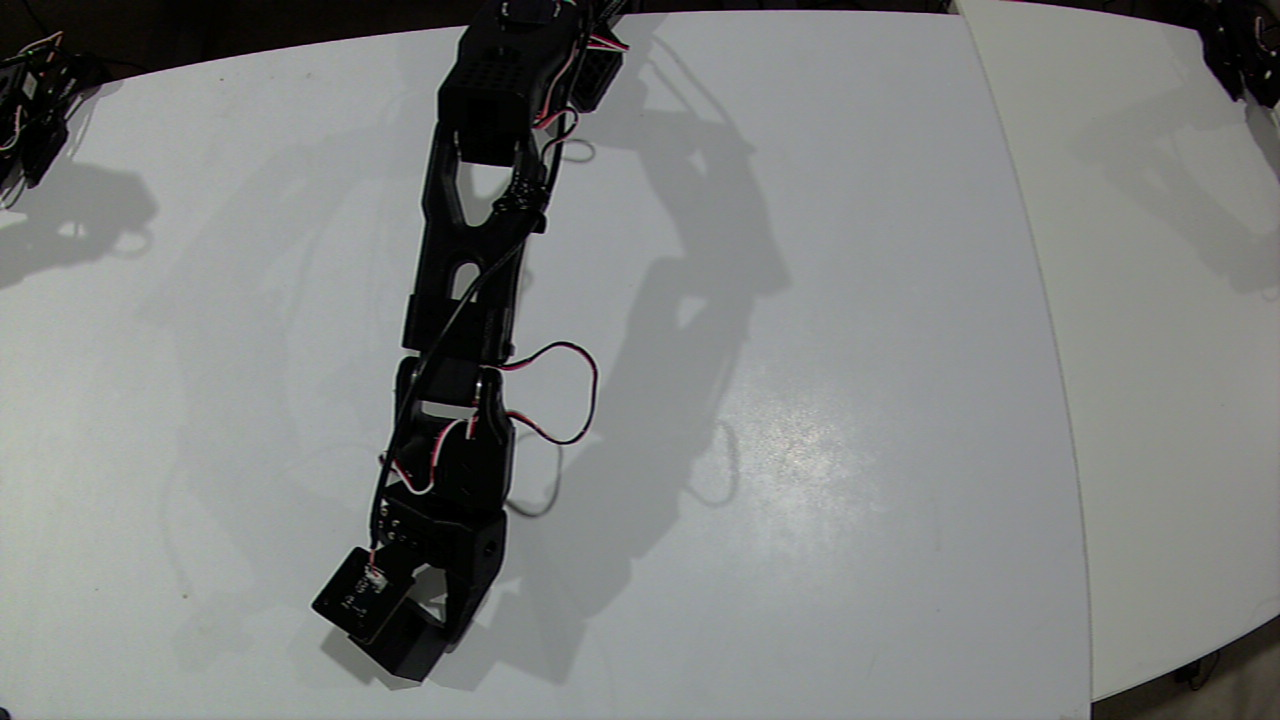
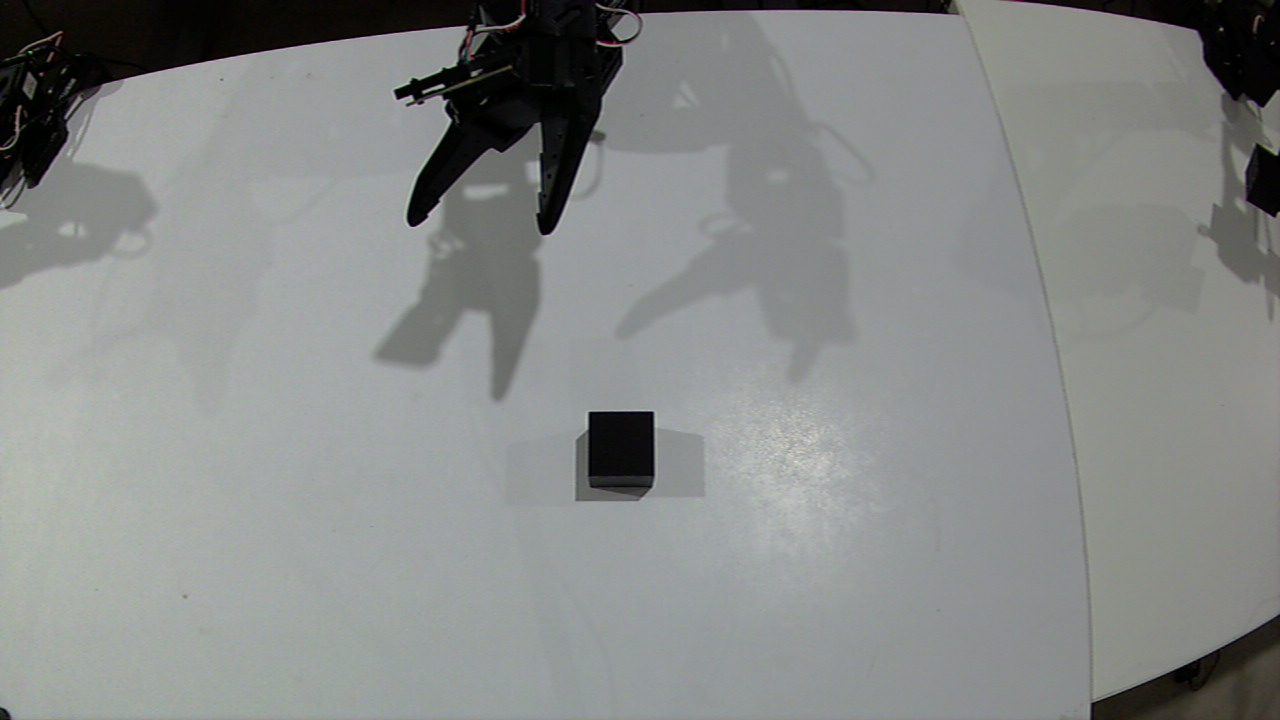
Update tools for arm-007__gpt-6-astra__grasp-cube
{"agent_id": "arm-007__gpt-6-astra__grasp-cube", "designation": "arm-007", "identity_version": 2, "model": "gpt-6-astra", "provider": "codex", "task_definition": {"description": "Start episode, pickup the black cube, bring black cube to home position, confirm successful grasp, stop episode, return object to new position, return home, repeat", "id": "grasp-cube", "success_criteria": ["successful episode coverage across the entire workspace", "achieve at least 50 successful episodes an hour"], "version": 2}, "task_id": "grasp-cube", "task_sha256": "e6c8adbb1562fdc6af3405e2e618046b110e27856c520c9f5cd329c258fb3818", "task_version": 2, "tools_sha256": "95f47c03e8aae2656a3b6314ec32c64b2eb64ece805bcdc6670f33f66fd2286d"}

Changed region(s): [[0.2188, 0.0, 0.5312, 0.9778], [0.9375, 0.1222, 1.0, 0.4278], [0.9688, 0.0, 1.0, 0.0611]]

diff --git a/agents/arm-007__gpt-6-astra__grasp-cube/cube_cycles.py b/agents/arm-007__gpt-6-astra__grasp-cube/cube_cycles.py
@@ -22,13 +22,14 @@ def move(b,q,t=1.8):
  for j in c.JOINTS:
   if c.fault_bits(b,j):raise RuntimeError('Motor fault '+j)
 def pose(pan,elbow=20):
+ pitch=float(os.environ.get("CUBE_PITCH","65"))
  from scipy.optimize import brentq
  from fk import forward
- def height(s):return forward(dict(shoulder_pan=2,shoulder_lift=s,elbow_flex=elbow,wrist_flex=65-s-elbow,wrist_roll=-30))['z']+.002193685765342651
- s=brentq(height,-80,35)
- return dict(shoulder_pan=pan,shoulder_lift=s,elbow_flex=elbow,wrist_flex=65-s-elbow)
+ def height(s):return forward(dict(shoulder_pan=2,shoulder_lift=s,elbow_flex=elbow,wrist_flex=pitch-s-elbow,wrist_roll=-30))['z']+.002193685765342651
+ s=brentq(height,-80,80)
+ return dict(shoulder_pan=pan,shoulder_lift=s,elbow_flex=elbow,wrist_flex=pitch-s-elbow)
 def above(q):return {**q,'shoulder_lift':q['shoulder_lift']-30,'wrist_flex':q['wrist_flex']+30}
-def home(b):move(b,HOME,2.3)
+def home(b):move(b,HOME,4)
 def grip(b):
  limit,_=c.read_register(b,'Torque_Limit','gripper')
  if limit!=220:raise RuntimeError('Expected bounded gripper output 220, got '+str(limit))
@@ -48,7 +49,7 @@ def run(n):
  if Path('tools/cube_recovery_required.json').exists():
   raise RuntimeError('Re-localize cube and validate pickup before clearing tools/cube_recovery_required.json')
  current=json.loads(STATE.read_text()) if STATE.exists() else pose(17)
- grid=[(pan,e) for e in (20,30,40) for pan in (-20,-5,10,25)]
+ grid=[(pan,e) for e in ((60,70,80) if os.environ.get('CUBE_PITCH')=='35' else (20,30,40)) for pan in (-20,0,20)]
  offset=int(os.environ.get("CUBE_GRID_OFFSET","0"))
  grid=grid[offset:]+grid[:offset]
  active=False
@@ -59,7 +60,7 @@ def run(n):
     ep=recording.start_recording('Pick black cube, bring to home, visually confirm retained grasp');active=True
     move(b,above(current));move(b,current,1.5)
     contact=grip(b)
-    move(b,above(current),1.5)
+    move(b,above(current),3)
     # Retain the seated closing target through lift and home.
     home(b)
     ok,evidence=held(b);snapshot()
@@ -70,7 +71,7 @@ def run(n):
     move(b,above(target));move(b,target,1.5)
     move(b,{'gripper':50},1.3)
     current=target;STATE.write_text(json.dumps(current))
-    move(b,above(current),1.5);home(b)
+    move(b,above(current),3);home(b)
     snapshot();emit(event='placed',pose=current)
   except BaseException as e:
    emit(event='stopped',error=str(e))
